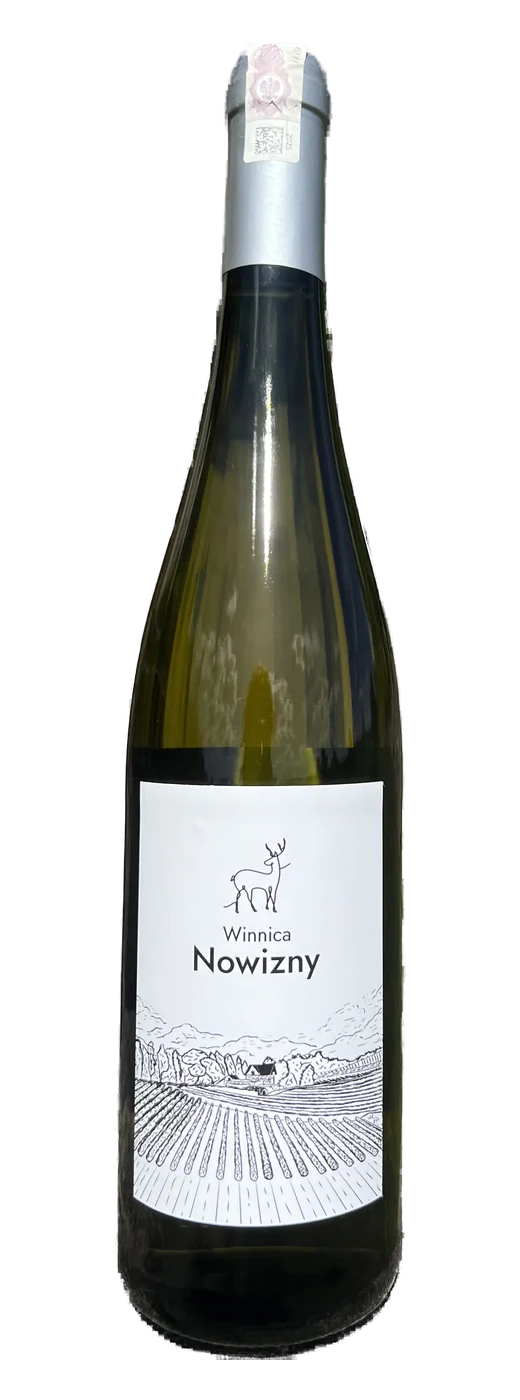
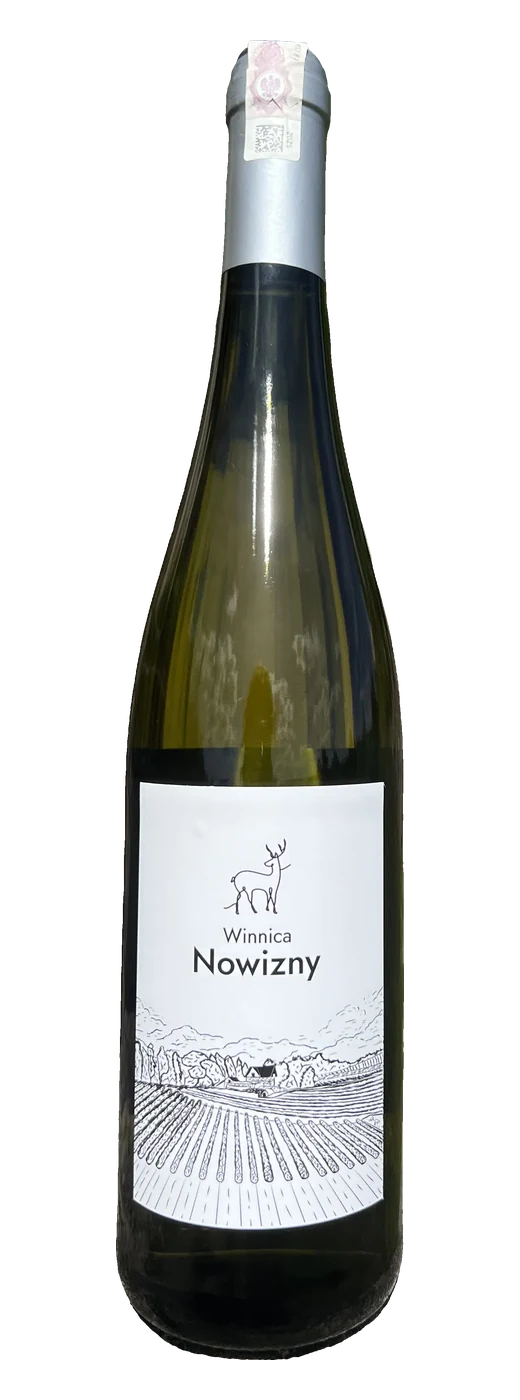
polish: tighten wine header spacing, clearer descriptions and grape label
- Cut the header-to-bottles gap by ~32px (48 to 16 on desktop).
- Re-cut the Bukowiec bottle to remove the light background halo by the cap.
- Bump description size ~1px (15px) with a roomier 1.7 line-height.
- Move the grape up next to the description, labelled 'Szczep <name>'.
- Trim two draft tasting notes to two lines so grape lines stay level.

diff --git a/wp-theme/winnica-nowizny/src/css/_sections.css b/wp-theme/winnica-nowizny/src/css/_sections.css
@@ -200,7 +200,7 @@
   display: flex;
   justify-content: space-between;
   align-items: flex-end;
-  margin-bottom: var(--sp-6);
+  margin-bottom: var(--sp-2);
 }
 
 /* ── Wina — collection grid ──
@@ -208,7 +208,7 @@
    five across on desktop, reflowing to fewer columns on smaller screens. */
 .wines-grid {
   list-style: none;
-  margin: var(--sp-3) 0 0;
+  margin: 0;
   padding: 0;
   display: grid;
   grid-template-columns: repeat(5, 1fr);
@@ -316,19 +316,26 @@
 }
 
 .wine-desc {
-  font-size: var(--fs-body-sm);
-  line-height: 1.6;
+  font-size: 0.9375rem; /* ~15px, a touch larger for readability */
+  line-height: 1.7;
   color: var(--c-text-body);
-  margin: 0 auto 14px;
+  margin: 0 auto 10px;
   max-width: 32ch;
+  min-height: calc(2 * 1.7em); /* reserve two lines so the grape line stays level */
 }
 
 .wine-grape {
   font-size: var(--fs-meta);
-  letter-spacing: 0.4px;
-  color: var(--c-oak);
-  margin: auto 0 0; /* pin to the card bottom so grape lines stay aligned */
-  padding-top: 4px;
+  color: var(--c-text-body);
+  margin: 0;
+}
+
+.wine-grape-label {
+  margin-right: 6px;
+  color: var(--c-amber-text);
+  font-size: var(--fs-label);
+  letter-spacing: 1.4px;
+  text-transform: uppercase;
 }
 
 /* Reflow: 5 across → 3 on tablet → 2 on phones. */
